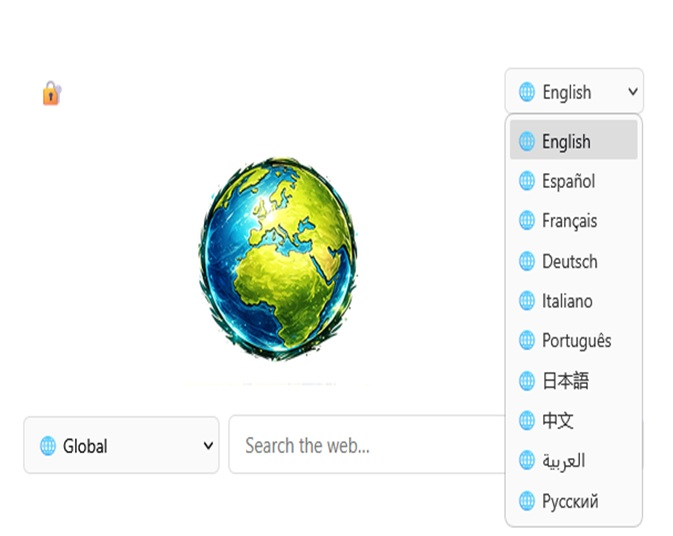
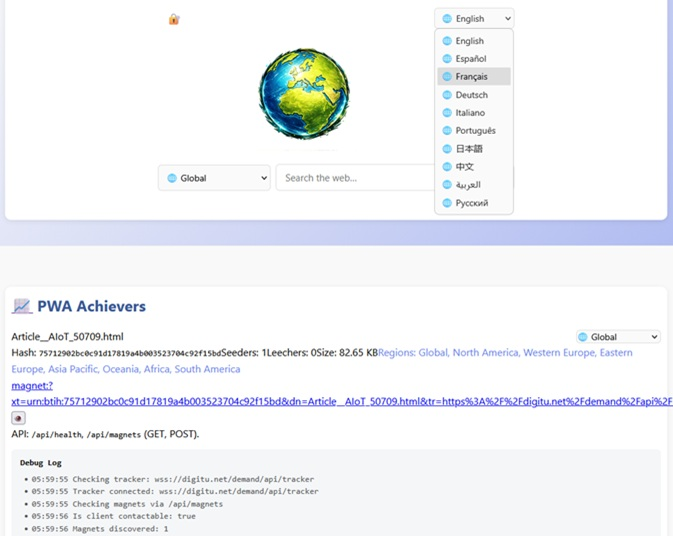
cleaner js

diff --git a/js/main.js b/js/main.js
@@ -235,59 +235,6 @@
 	$('input, textarea, select').placeholder()  
 
 
-  	/*---------------------------------------------------- */
-	/*	contact form
-	------------------------------------------------------ */
-
-	/* local validation */
-	$('#contactForm').validate({
-
-		/* submit via ajax */
-		submitHandler: function(form) {
-
-			var sLoader = $('#submit-loader');
-
-			$.ajax({      	
-
-		      type: "POST",
-		      url: "inc/sendEmail.php",
-		      data: $(form).serialize(),
-		      beforeSend: function() { 
-
-		      	sLoader.fadeIn(); 
-
-		      },
-		      success: function(msg) {
-
-	            // Message was sent
-	            if (msg == 'OK') {
-	            	sLoader.fadeOut(); 
-	               $('#message-warning').hide();
-	               $('#contactForm').fadeOut();
-	               $('#message-success').fadeIn();   
-	            }
-	            // There was an error
-	            else {
-	            	sLoader.fadeOut(); 
-	               $('#message-warning').html(msg);
-		            $('#message-warning').fadeIn();
-	            }
-
-		      },
-		      error: function() {
-
-		      	sLoader.fadeOut(); 
-		      	$('#message-warning').html("Something went wrong. Please try again.");
-		         $('#message-warning').fadeIn();
-
-		      }
-
-	      });     		
-  		}
-
-	});
-
-
  	/*----------------------------------------------------- */
   	/* Back to top
    ------------------------------------------------------- */ 

diff --git a/auto.html b/auto.html
@@ -175,11 +175,10 @@
         </div>
       </fieldset>
     </form>
-
-    <div id="message-warning"></div>
     <div id="message-success" style="display:none">
       <i class="fa fa-check"></i>Your message was sent, thank you!<br>
     </div>
+    <!--<div id="message-warning"></div>-->
   </div>
 </div>
   </section>

diff --git a/index.html b/index.html
@@ -1004,10 +1004,10 @@
       </fieldset>
     </form>
 
-    <div id="message-warning"></div>
     <div id="message-success" style="display:none">
       <i class="fa fa-check"></i>Your message was sent, thank you!<br>
     </div>
+	<!--<div id="message-warning"></div>-->
   </div>
 </div>
 
